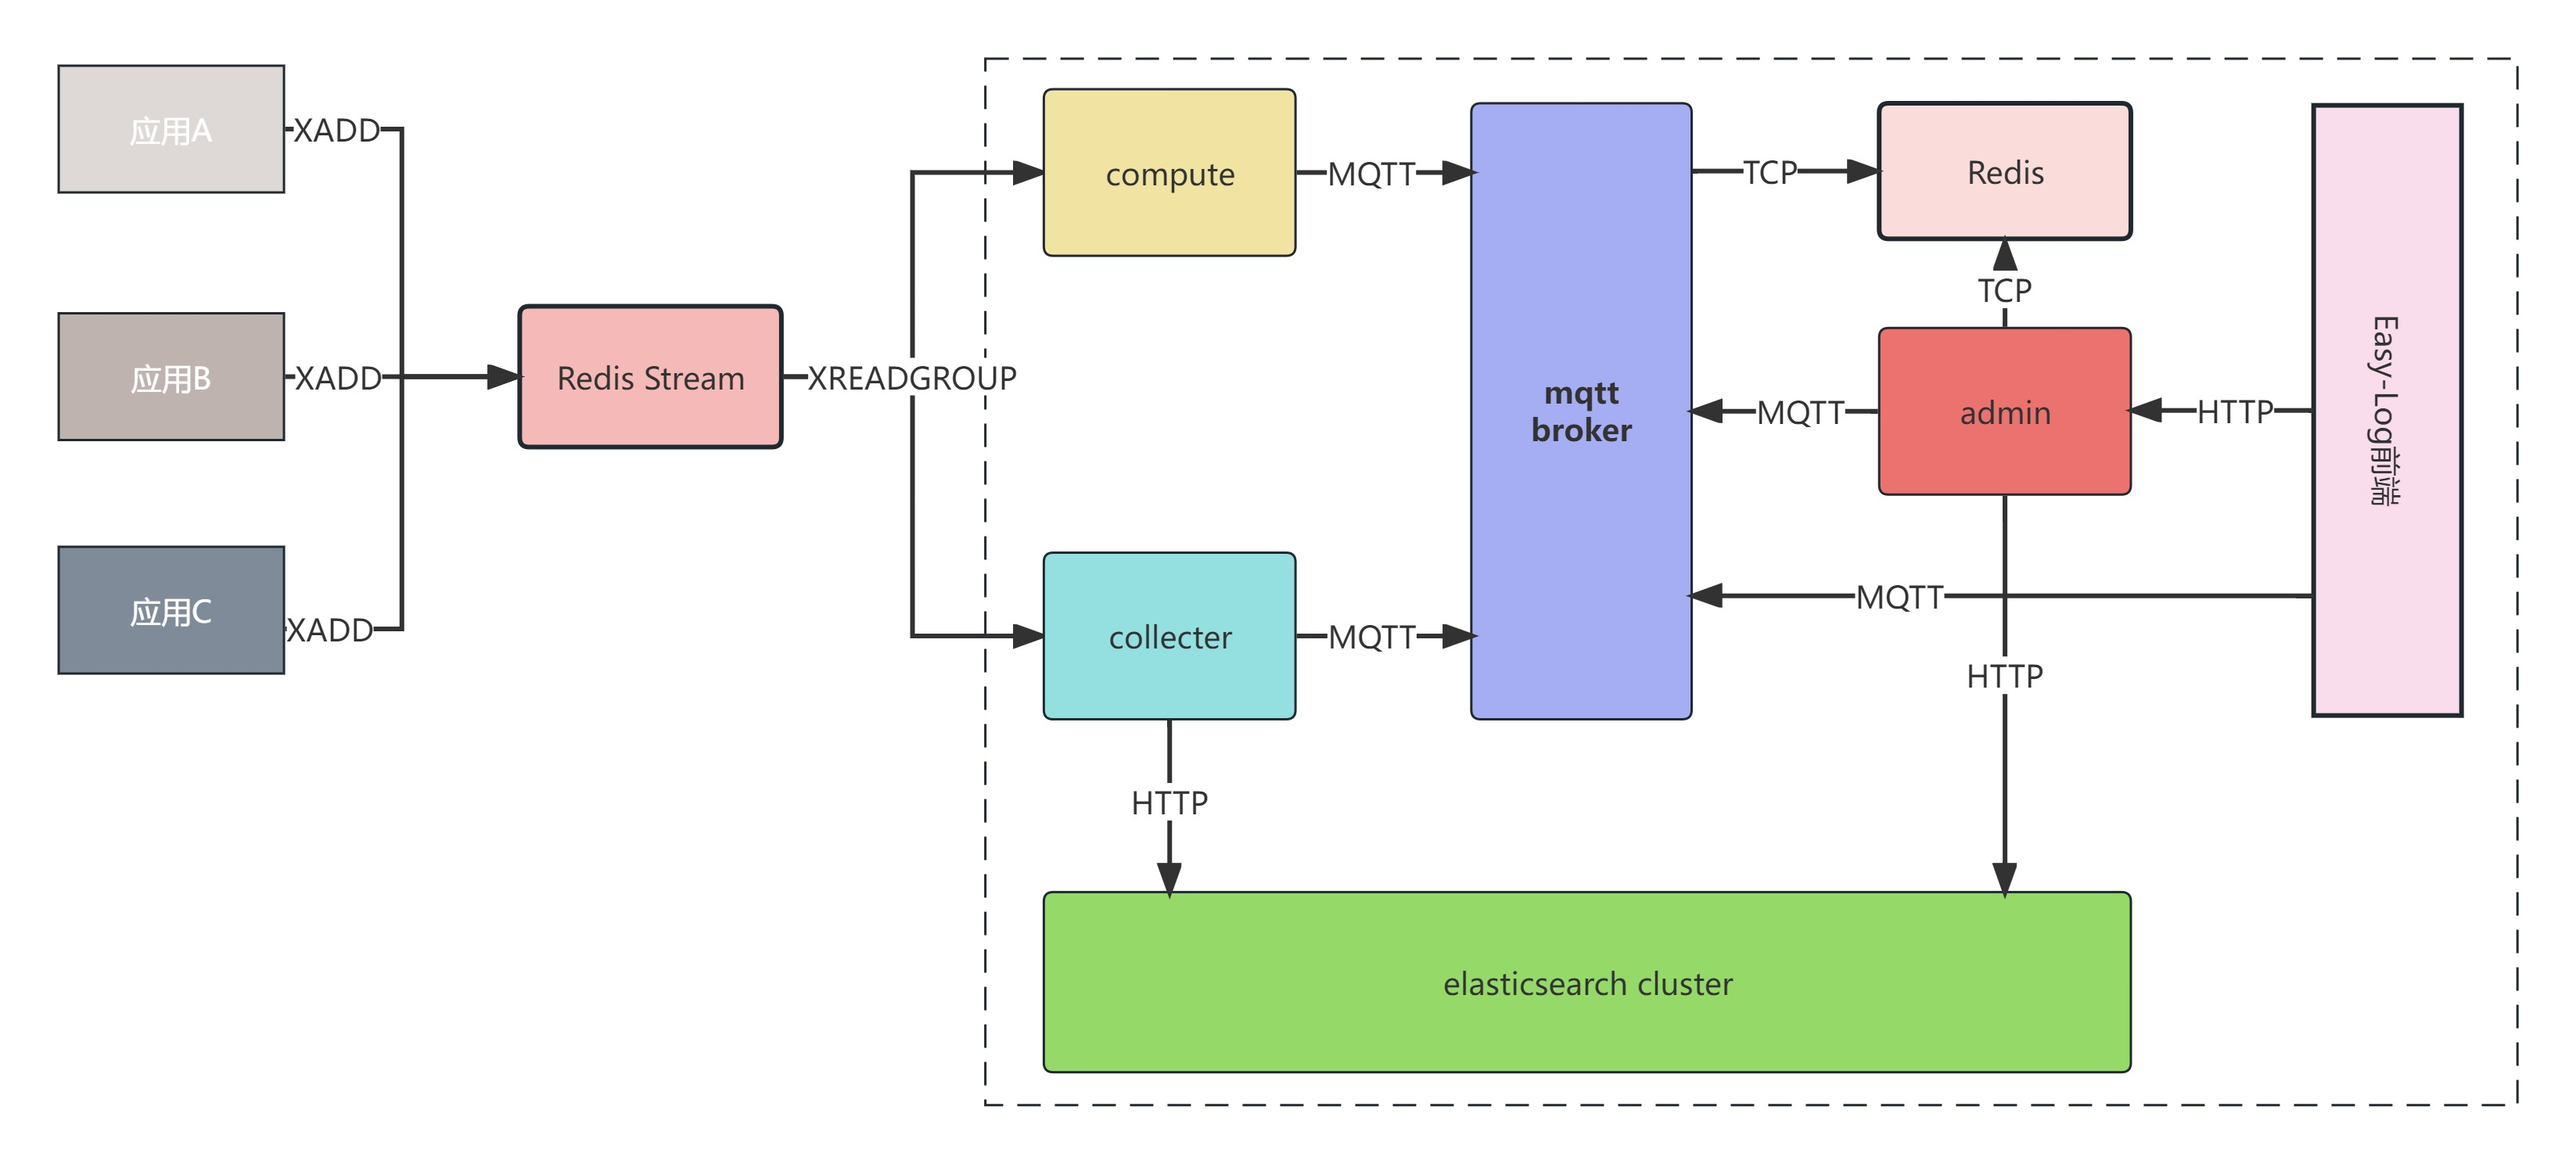
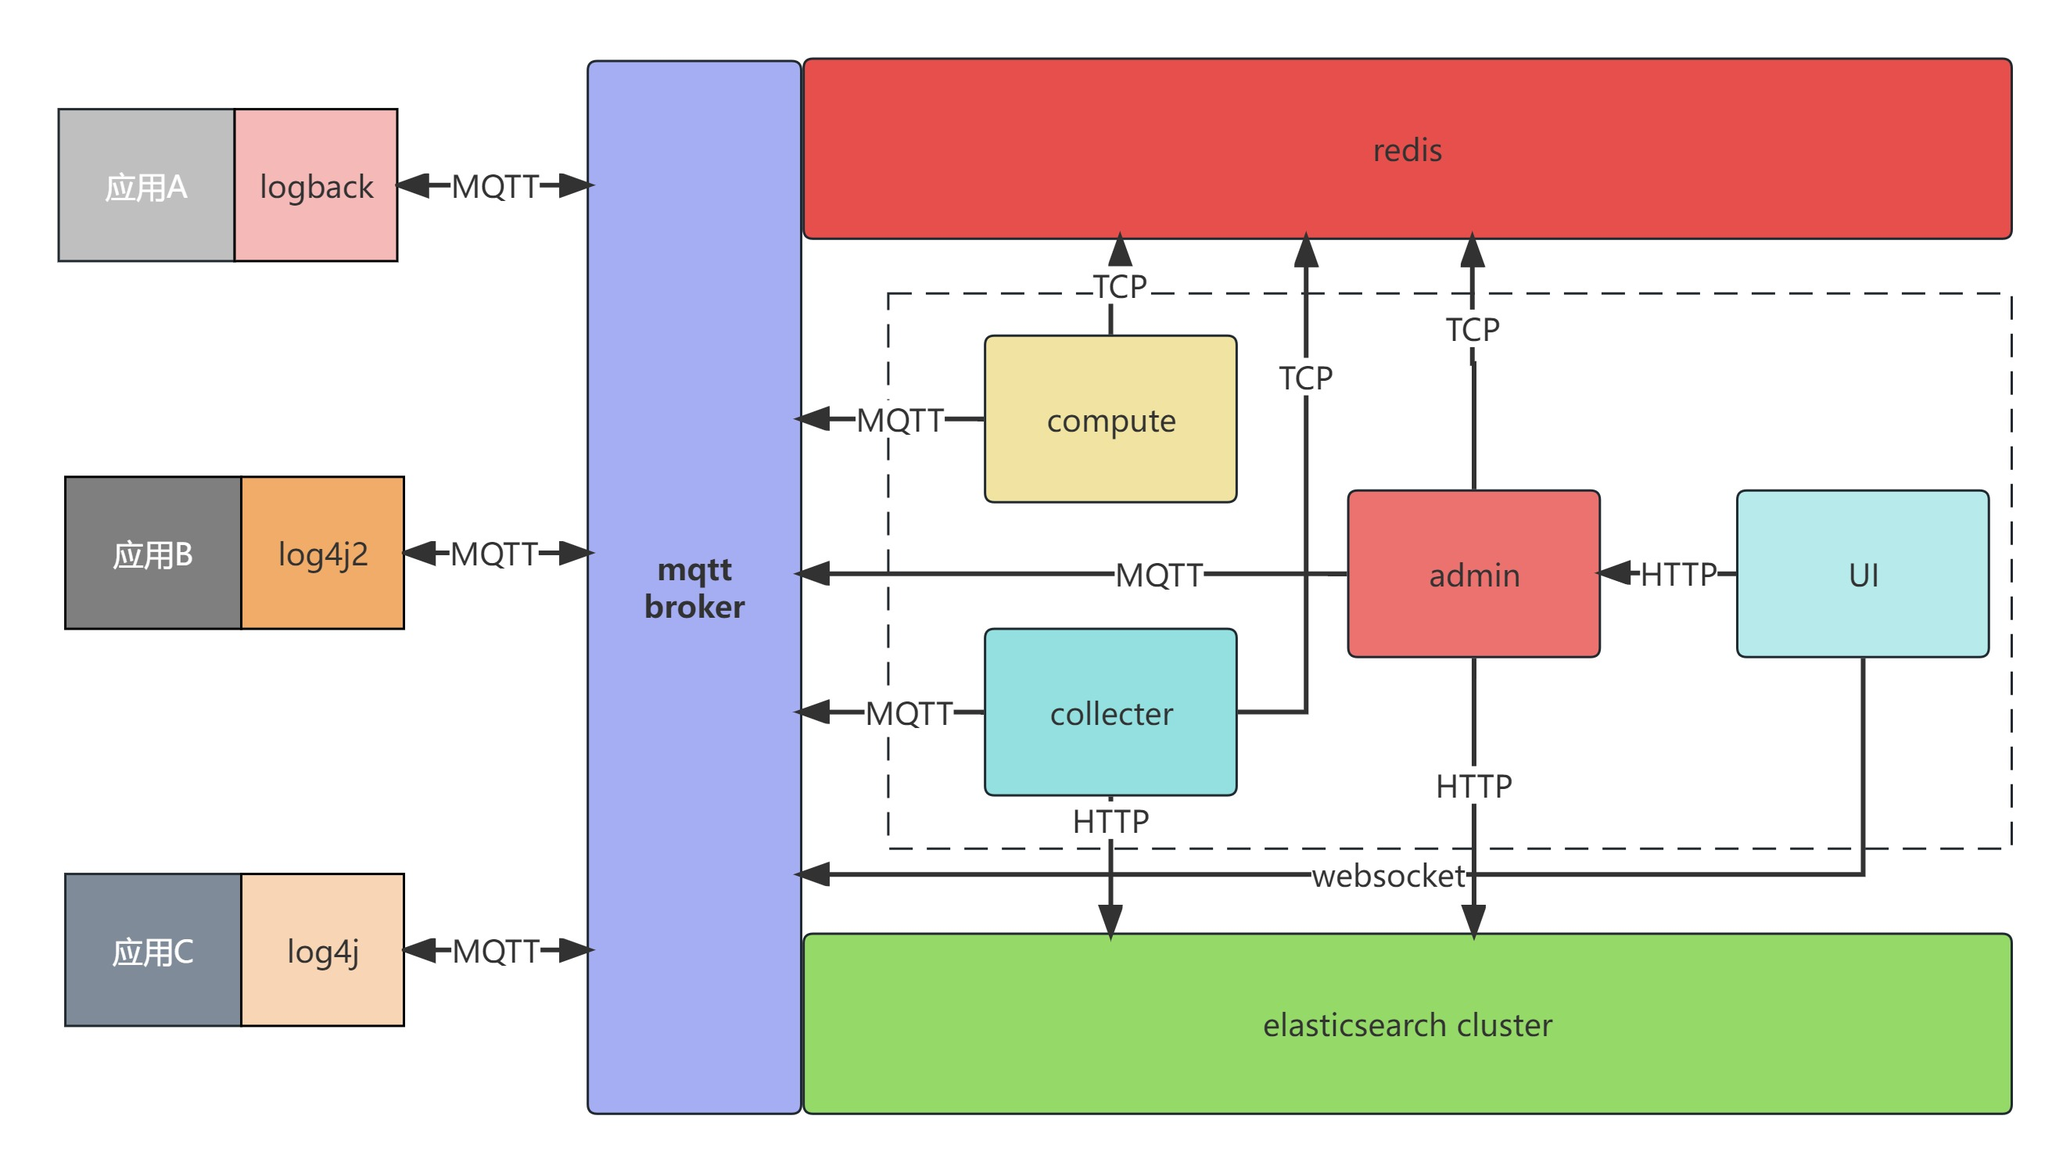
docs: 文档修改

diff --git a/README.md b/README.md
@@ -1,34 +1,54 @@
-## 项目特性
+> 项目特性
 
-- 无代码入侵的分布式日志系统，基于log4j2、logback搜集日志，基于TLog实现链路追踪，方便查询关联日志
-- elasticsearch作为日志存储、查询、分析聚合引擎，使用ES的Data Streams + ILM机制自动完成日志索引全生命周期管理
+- 无代码入侵的分布式日志系统，基于log4j、log4j2、logback搜集日志，基于[TLog](https://tlog.yomahub.com)实现链路追踪，方便查询关联日志
+- elasticsearch作为日志存储、查询分析引擎,利用Data Streams + ILM机制功能特性完成日志索引的生命周期管理
+- 基于MQTT协议实现日志收集、实时修改应用日志级别、日志告警推送及日志实时过滤等功能
 
-## 系统架构
+> 核心架构
+
 ![Easy-Log系统架构.jpg](doc/img/Easy-Log系统架构.jpg)
 
 ---
 
 >核心模块说明
-- easy-log-mqtt服务端，负责消息推送
-- easy-log-admin负责后台管理，认证、告警、实时过滤等基础信息管理
-- easy-log-collector负责从Redis Stream中订阅数据，批量插入ES集群中
-- easy-log-compute主要实现日志告警、实时日志过滤和日志收集速率计算等功能
+- mqtt broker，负责消息推送，基于[EMQX](https://www.emqx.io/zh)中间件实现        
+- easy-log-admin负责用户认证、日志告警规则、日志实时过滤等基础信息管理
+- easy-log-compute主要实现日志告警、日志实时过滤和日志收集速率计算等功能
+- easy-log-collector主要负责订阅日志数据，批量插入ES集群
 
-## 使用说明
+> Easy-Log部署
+1. [ES集群部署](doc/quick-start/es/es.md)
+2. [emqx集群部署](doc/quick-start/emqx/emqx.md)
+3. [Easy-Log部署](doc/quick-start/easy-log/el.md)
 
-- 应用端集成
+---
+
+> 客户端使用说明
+
+- 客户端配置文件
+```properties
+# 创建src/main/resources/easy-log.properties
+appName=demo                            #应用名称
+namespace=test                          #命名空间
+mqttAddress=tcp://121.36.96.79:1883     #emqx地址
+queueSize=10240                         #队列大小
+maxPushSize=500                         #日志批推送大小
+```
+
+---
+
+- 客户端maven依赖引入
 ```xml
+<!--结合项目中使用的日志框架-->
 <dependencies>
-    <!--{xxxx} 目前支持log4j2和logback-->
     <dependency>
         <groupId>com.chj</groupId>
-        <artifactId>easy-log-{xxxx}-appender</artifactId>
+        <artifactId>easy-log-[log4j2|log4j|logback]-appender</artifactId>
         <version>${latest}</version>
     </dependency>
     <!--tlog 
-        一个轻量级的分布式日志标记追踪神器，10分钟即可接入
-        自动对日志打标签完成微服务的链路追踪
-        基于tlog实现日志链路追踪，强烈建议引入该依赖，教程详见官网 https://tlog.yomahub.com/
+        一个轻量级的分布式日志标记追踪神器，10分钟即可接入，自动对日志打标签完成微服务的链路追踪
+        基于tlog实现日志链路追踪，强烈建议引入该依赖
     -->
     <dependency>
         <groupId>com.yomahub</groupId>
@@ -38,87 +58,34 @@
 </dependencies>
 ```
 - 修改日志配置文件
-
+- logback 配置
 ```xml
-<!--logback 配置-->
 <configuration scan="false" debug="false">
     <!--其他Appender-->
-    <appender name="REDIS_STREAM" class="com.chj.easy.log.logback.appender.EasyLogAppender">
-        <!--应用名称，默认unknown-->
-        <appName>easy-log-example-boot2-logback</appName>
-        <!--命名空间，默认default-->
-        <namespace>default</namespace>
-        <!--批量推送数量，默认500-->
-        <maxPushSize>500</maxPushSize>
-        <!--jvm缓存队列大小，默认10240-->
-        <queueSize>10240</queueSize>
-        <!--redis模式，单机single、哨兵Sentinel、集群cluster，默认single-->
-        <redisMode>single</redisMode>
-        <!--redis服务端地址，默认127.0.0.1:6379-->
-        <redisAddress>114.217.55.239:6379</redisAddress>
-        <!--redis库号，默认0-->
-        <redisDb>3</redisDb>
-        <!--redis密码,默认为null-->
-        <redisPass>ICONMAN20220106R</redisPass>
-        <!--redis连接超时时间,默认1000-->
-        <redisConnectionTimeout>1000</redisConnectionTimeout>
-        <!--redis Stream最多存储消息数,默认1000000-->
-        <redisStreamMaxLen>1000000</redisStreamMaxLen>
-        <!--redis连接池最大空闲数，默认30-->
-        <redisPoolMaxIdle>30</redisPoolMaxIdle>
-        <!--redis连接池最大连接数，默认200-->
-        <redisPoolMaxTotal>200</redisPoolMaxTotal>
-        <!--mqttAddress服务端地址,默认127.0.0.1:1883-->
-        <mqttAddress>127.0.0.1:1883</mqttAddress>
-    </appender>
-
+    <appender name="EASY_LOG" class="com.chj.easy.log.logback.appender.EasyLogAppender"/>
     <root level="INFO">
         <!--其他appender-ref-->
-        <appender-ref ref="REDIS_STREAM"/>
+        <appender-ref ref="EASY_LOG"/>
     </root>
 </configuration>
 ```
-
+- log4j2 配置
 ```xml
-<!--log4j2 配置-->
 <Configuration>
     <Appenders>
         <!--其他Appender-->
-        <EasyLogRedis name="REDIS_STREAM_TEST"
-                      appName="easy-log-example-boot2-log4j2"
-                      namespace="prod"
-                      maxPushSize="100"
-                      queueSize="10240"
-                      redisMode="single"
-                      redisAddress="114.217.55.239:6379"
-                      redisDb="3"
-                      redisPass="ICONMAN20220106R"
-                      redisConnectionTimeout="1000"
-                      redisStreamMaxLen="1000000"
-                      redisPoolMaxTotal="200"
-                      redisPoolMaxIdle="30"
-                      mqttAddress="127.0.0.1:1883"
-        />
+        <EasyLog name="EASY_LOG"/>
     </Appenders>
 
     <Loggers>
         <root level="info">
             <!--其他appender-ref-->
-            <appender-ref ref="REDIS_STREAM_TEST"/>
+            <appender-ref ref="EASY_LOG"/>
         </root>
     </Loggers>
 </Configuration>
-
 ```
-**代码提交规范**
-- feat: 新功能
-- fix: 修复 Bug
-- docs: 文档修改
-- perf: 性能优化
-- revert: 版本回退
-- ci: CICD集成相关
-- test: 添加测试代码
-- refactor: 代码重构
-- build: 影响项目构建或依赖修改
-- style: 不影响程序逻辑的代码修改
-- chore: 不属于以上类型的其他类型(日常事务)
+- log4j 配置
+```properties
+log4j.appender.EASY_LOG=com.chj.easy.log.log4j.appender.EasyLogAppender
+```

diff --git a/doc/note.md b/doc/note.md
@@ -15,3 +15,16 @@ git remote set-url --add origin git@github.com:easy-log/easy-log.git
   "cmdType": "GET_LOGGER_CONFIGURATIONS"
 }
 ```
+
+**代码提交规范**
+- feat: 新功能
+- fix: 修复 Bug
+- docs: 文档修改
+- perf: 性能优化
+- revert: 版本回退
+- ci: CICD集成相关
+- test: 添加测试代码
+- refactor: 代码重构
+- build: 影响项目构建或依赖修改
+- style: 不影响程序逻辑的代码修改
+- chore: 不属于以上类型的其他类型(日常事务)
